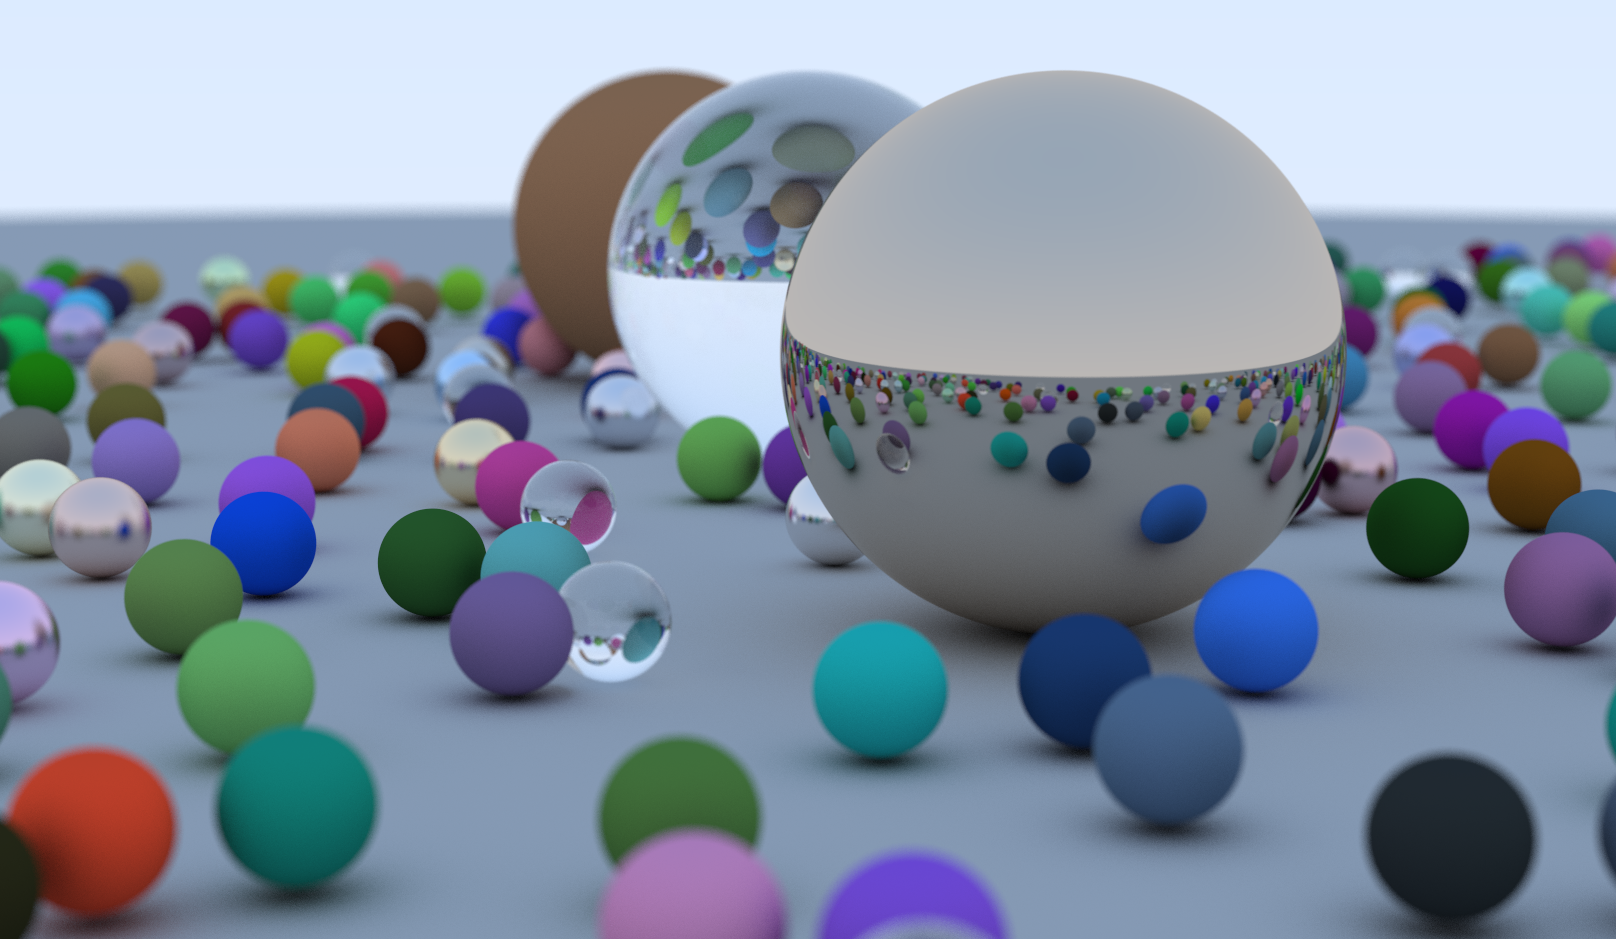
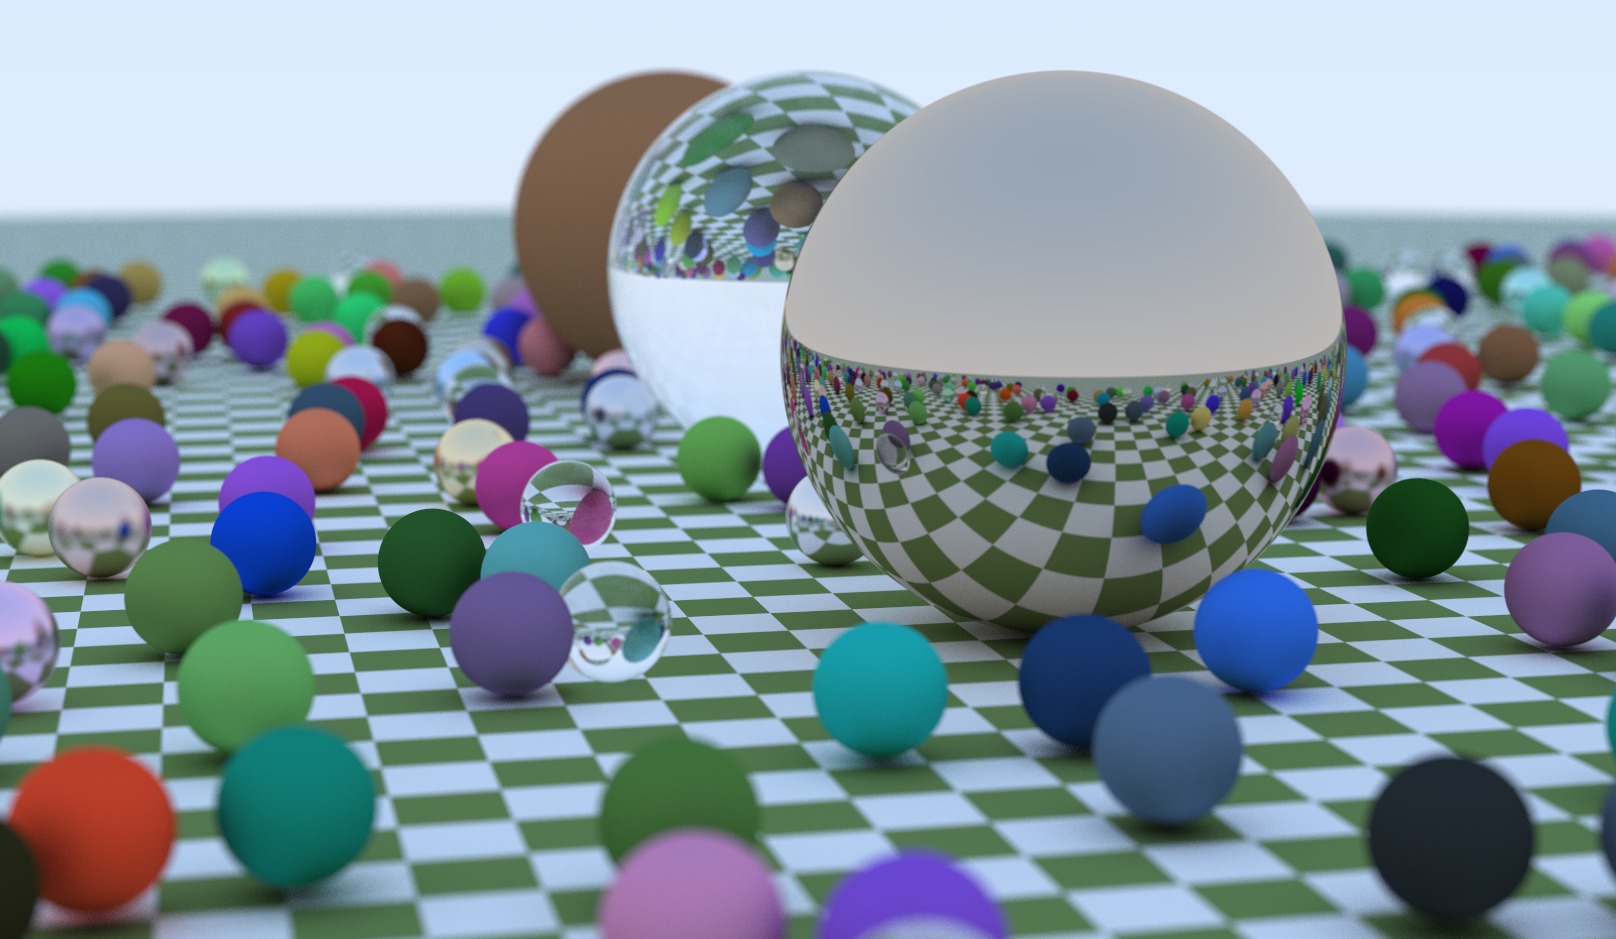
add  texture

diff --git a/RayTracing/Head/World.h b/RayTracing/Head/World.h
@@ -18,6 +18,7 @@ extern bool AppPause;
 using namespace std;
 
 #define ThreadCounts 30
+#define ActorCounts 500
 struct MultiThreadData
 {
 	int nx = 0;
@@ -41,6 +42,8 @@ struct DrawRGB
 class World
 {
 public:
+	~World();
+
 	static int GetWindowWidth(){ return WindowWidth; }
 	static void SetWindowWidth(int width) {  WindowWidth=width; }
 	static int GetWindowHeigh(){ return WindowHeigh; }
@@ -57,6 +60,9 @@ public:
 	static void DrawMultiThread(MultiThreadData data);
 	static void ShowSence(MultiThreadData data);
 private:
+	Hitable** list = nullptr;
+
+	int NewActor = 0;
 	static int WindowWidth;
 	static int WindowHeigh;
 
@@ -68,6 +74,23 @@ int  World::ColorCounts[ThreadCounts];
 vector<vector<DrawRGB>> World::SenceColors;
 int World::WindowWidth = 1600;
 int World::WindowHeigh = 900;
+
+World::~World()
+{
+	if (list != nullptr)
+	{
+		for (int i=0;i<NewActor;++i)
+		{
+			if (list[i] != nullptr)
+			{
+				delete list[i];
+				list[i] = nullptr;
+			}
+		}
+		delete []list;
+		list = nullptr;
+	}
+}
 
 inline vec3 World::Color(const Ray& r, Hitable* world, int depth)
 {
@@ -91,9 +114,14 @@ inline vec3 World::Color(const Ray& r, Hitable* world, int depth)
 
 inline Hitable* World::InitDOFSence()
 {
-	int n = 500;
-	Hitable** list = new Hitable* [n + 1];
-	list[0] = new Sphere(vec3(0, -1000, 0), 1000, new Lambertian(vec3(0.5f, 0.5f, 0.5f)));
+	int n = ActorCounts;
+	list = new Hitable* [n];
+	list[0] = new Sphere(vec3(0, -1000, 0), 1000,
+		new Lambertian(
+			new Checker_Texture(
+				new Constant_Texture(vec3(0.2, 0.3, 0.1)),
+				new Constant_Texture(vec3(0.9, 0.9, 0.9))
+			)));
 	int i = 1;
 	for (int a = -11; a < 11; a++) {
 		for (int b = -11; b < 11; b++) {
@@ -103,9 +131,10 @@ inline Hitable* World::InitDOFSence()
 				if (choose_mat < 0.8f) {  // diffuse
 					list[i++] = new Sphere(
 						center, 0.2f,
-						new Lambertian(vec3(random_double() * random_double(),
+						new Lambertian(new Constant_Texture(vec3(
 							random_double() * random_double(),
-							random_double() * random_double()))
+							random_double() * random_double(),
+							random_double() * random_double())))
 					);
 				}
 				else if (choose_mat < 0.95f) { // metal
@@ -125,17 +154,23 @@ inline Hitable* World::InitDOFSence()
 	}
 
 	list[i++] = new Sphere(vec3(0, 1, 0), 1.0, new Dielectric(1.5));
-	list[i++] = new Sphere(vec3(-4, 1, 0), 1.0, new Lambertian(vec3(0.4f, 0.2f, 0.1f)));
+	list[i++] = new Sphere(vec3(-4, 1, 0), 1.0, new Lambertian(new Constant_Texture(vec3(0.4f, 0.2f, 0.1f))));
 	list[i++] = new Sphere(vec3(4, 1, 0), 1.0, new Metal(vec3(0.7f, 0.6f, 0.5f), 0.0));
-
+	
+	NewActor = i;
 	return new BVH_Node(list, i,0.0f,0.0f);
 }
 
 inline Hitable* World::InitMoveSphereSence()
 {
-	int n = 50000;
-	Hitable** list = new Hitable*[n + 1];
-	list[0] = new Sphere(vec3(0, -1000, 0), 1000, new Lambertian(vec3(0.5, 0.5, 0.5)));
+	int n = ActorCounts;
+	list = new Hitable*[n];
+	list[0] = new Sphere(vec3(0, -1000, 0), 1000,
+		new Lambertian(
+			new Checker_Texture(
+				new Constant_Texture(vec3(0.2, 0.3, 0.1)),
+				new Constant_Texture(vec3(0.9, 0.9, 0.9))
+			)));
 	int i = 1;
 	for (int a = -10; a < 10; a++) {
 		for (int b = -10; b < 10; b++) {
@@ -143,7 +178,7 @@ inline Hitable* World::InitMoveSphereSence()
 			vec3 center(a + 0.9f * random_double(), 0.2f, b + 0.9f * random_double());
 			if ((center - vec3(4, 0.2f, 0)).length() > 0.9f) {
 				if (choose_mat < 0.8f) {  // diffuse
-					list[i++] = new MoveSphere(center, center + vec3(0, 0.5f * random_double(), 0), 0.0f, 1.0f, 0.2f, new Lambertian(vec3(random_double() * random_double(), random_double() * random_double(), random_double() * random_double())));
+					list[i++] = new MoveSphere(center, center + vec3(0, 0.5f * random_double(), 0), 0.0f, 1.0f, 0.2f, new Lambertian(new Constant_Texture(vec3(random_double() * random_double(), random_double() * random_double(), random_double() * random_double()))));
 				}
 				else if (choose_mat < 0.95f) { // metal
 					list[i++] = new Sphere(center, 0.2f, new Metal(vec3(0.5f * (1 + random_double()), 0.5f * (1 + random_double()), 0.5f * (1 + random_double())), 0.5f * random_double()));
@@ -156,7 +191,7 @@ inline Hitable* World::InitMoveSphereSence()
 	}
 
 	list[i++] = new Sphere(vec3(0, 1, 0), 1.0f, new Dielectric(1.5f));
-	list[i++] = new Sphere(vec3(-4, 1, 0), 1.0f, new Lambertian(vec3(0.4f, 0.2f, 0.1f)));
+	list[i++] = new Sphere(vec3(-4, 1, 0), 1.0f, new Lambertian(new Constant_Texture(vec3(0.4f, 0.2f, 0.1f))));
 	list[i++] = new Sphere(vec3(4, 1, 0), 1.0f, new Metal(vec3(0.7f, 0.6f, 0.5f), 0.0f));
 
 	return new BVH_Node(list,i,0.0f,1.0f);
@@ -241,7 +276,8 @@ inline void World::ShowSence(MultiThreadData data)
 {
 	int counts = 0;
 	int AllPixel = WindowHeigh * WindowWidth;
-	char* colorPNG = new char[AllPixel * 3];
+	int PNGSize = AllPixel * 3;
+	char* colorPNG = new char[PNGSize];
 	do
 	{
 		counts = 0;
@@ -266,7 +302,7 @@ inline void World::ShowSence(MultiThreadData data)
 	} while (counts < AllPixel);
 
 	stbi_write_png("RayTracing.png", WindowWidth,WindowHeigh, 3, (char *)colorPNG, 0);
-	delete colorPNG;
+	delete []colorPNG;
 }
 
 

diff --git a/RayTracing/Head/Material.h b/RayTracing/Head/Material.h
@@ -2,7 +2,7 @@
 #include "ray.h"
 #include "Hitable.h"
 #include "Random.h"
-
+#include "Texture.h"
 struct Hit_Record;
 
 float schlick(float cosine, float ref_idx) {
@@ -41,25 +41,36 @@ vec3 random_in_unit_sphere() {
 
 class Material {
 public:
+	virtual ~Material() {};
 	virtual bool scatter(const Ray& r_in, const Hit_Record& rec, vec3& attenuation, Ray& scattered) const = 0;
 };
 
 
-class Lambertian : public Material {
+class Lambertian : public Material 
+{
 public:
-	Lambertian(const vec3& a) : albedo(a) {}
+	Lambertian(Texture* a) : albedo(a) {}
+	~Lambertian()
+	{
+		if (albedo != nullptr)
+		{
+			delete albedo;
+			albedo = nullptr;
+		}
+	}
 	virtual bool scatter(const Ray& r_in, const Hit_Record& rec, vec3& attenuation, Ray& scattered) const {
 		vec3 target = rec.p + rec.normal + random_in_unit_sphere();
 		scattered = Ray(rec.p, target - rec.p,r_in.time());
-		attenuation = albedo;
+		attenuation = albedo->value(0,0,rec.p);
 		return true;
 	}
-
-	vec3 albedo;
+private:
+	Texture *albedo=nullptr;
 };
 
 
-class Metal : public Material {
+class Metal : public Material 
+{
 public:
 	Metal(const vec3& a, float f) : albedo(a) { if (f < 1) fuzz = f; else fuzz = 1; }
 	virtual bool scatter(const Ray& r_in, const Hit_Record& rec, vec3& attenuation, Ray& scattered) const {
@@ -68,12 +79,14 @@ public:
 		attenuation = albedo;
 		return (dot(scattered.direction(), rec.normal) > 0);
 	}
+private:
 	vec3 albedo;
 	float fuzz;
 };
 
 
-class Dielectric : public Material {
+class Dielectric : public Material 
+{
 public:
 	Dielectric(float ri) : ref_idx(ri) {}
 	virtual bool scatter(const Ray& r_in, const Hit_Record& rec, vec3& attenuation, Ray& scattered) const {
@@ -106,6 +119,6 @@ public:
 			scattered = Ray(rec.p, refracted, r_in.time());
 		return true;
 	}
-
+private:
 	float ref_idx;
 };

diff --git a/RayTracing/Head/Texture.h b/RayTracing/Head/Texture.h
@@ -1,0 +1,42 @@
+#pragma once
+#include "Vector3.h"
+
+class Texture 
+{
+public:
+	virtual ~Texture() {}
+	virtual vec3 value(float u, float v, const vec3& p) const = 0;
+};
+
+
+class Constant_Texture : public Texture {
+public:
+	Constant_Texture() { }
+	~Constant_Texture()
+	{
+	}
+	Constant_Texture(vec3 c) : color(c) { }
+	virtual vec3 value(float u, float v, const vec3& p) const {
+		return color;
+	}
+
+private:
+	vec3 color;
+};
+
+
+class Checker_Texture : public Texture {
+public:
+	Checker_Texture() { }
+	Checker_Texture(Texture* t0, Texture* t1) : even(t0), odd(t1) { }
+	virtual vec3 value(float u, float v, const vec3& p) const {
+		float sines = sin(10 * p.x()) * sin(10 * p.y()) * sin(10 * p.z());
+		if (sines < 0)
+			return odd->value(u, v, p);
+		else
+			return even->value(u, v, p);
+	}
+private:
+	Texture* odd=nullptr;
+	Texture* even = nullptr;
+};

diff --git a/RayTracing/Head/Sphere.h b/RayTracing/Head/Sphere.h
@@ -5,13 +5,21 @@
 class Sphere : public Hitable {
 public:
 	Sphere() {}
+	~Sphere()
+	{
+		if (mat_ptr != nullptr)
+		{
+			delete mat_ptr;
+			mat_ptr = nullptr;
+		}
+	}
 	Sphere(vec3 cen, float r, Material* m) : center(cen), radius(r), mat_ptr(m) {};
 	virtual bool hit(const Ray& r, float tmin, float tmax, Hit_Record& rec) const;
 	virtual bool bounding_box(float t0, float t1, AABB& box) const;
 private:
 	vec3 center;
 	float radius = 0.0f;
-	Material* mat_ptr=NULL;
+	Material* mat_ptr=nullptr;
 };
 
 

diff --git a/RayTracing/Head/MoveSphere.h b/RayTracing/Head/MoveSphere.h
@@ -4,6 +4,14 @@
 class MoveSphere : public Hitable {
 public:
 	MoveSphere():time0(0.0f),time1(0.0f) {}
+	~MoveSphere()
+	{
+		if (mat_ptr != nullptr)
+		{
+			delete mat_ptr;
+			mat_ptr = nullptr;
+		}
+	}
 	MoveSphere(vec3 cen0, vec3 cen1, float t0, float t1, float r, Material* m) : center0(cen0), center1(cen1), time0(t0), time1(t1), radius(r), mat_ptr(m) {};
 	virtual bool hit(const Ray& r, float tmin, float tmax, Hit_Record& rec) const;
 	vec3 center(float time) const;

diff --git a/RayTracing/Head/Hitable.h b/RayTracing/Head/Hitable.h
@@ -13,6 +13,7 @@ struct Hit_Record
 
 class Hitable {
 public:
+	virtual ~Hitable() {}
 	virtual bool hit(const Ray& r, float t_min, float t_max, Hit_Record& rec) const = 0;
 	virtual bool bounding_box(float t0, float t1, AABB& box) const = 0;
 };
